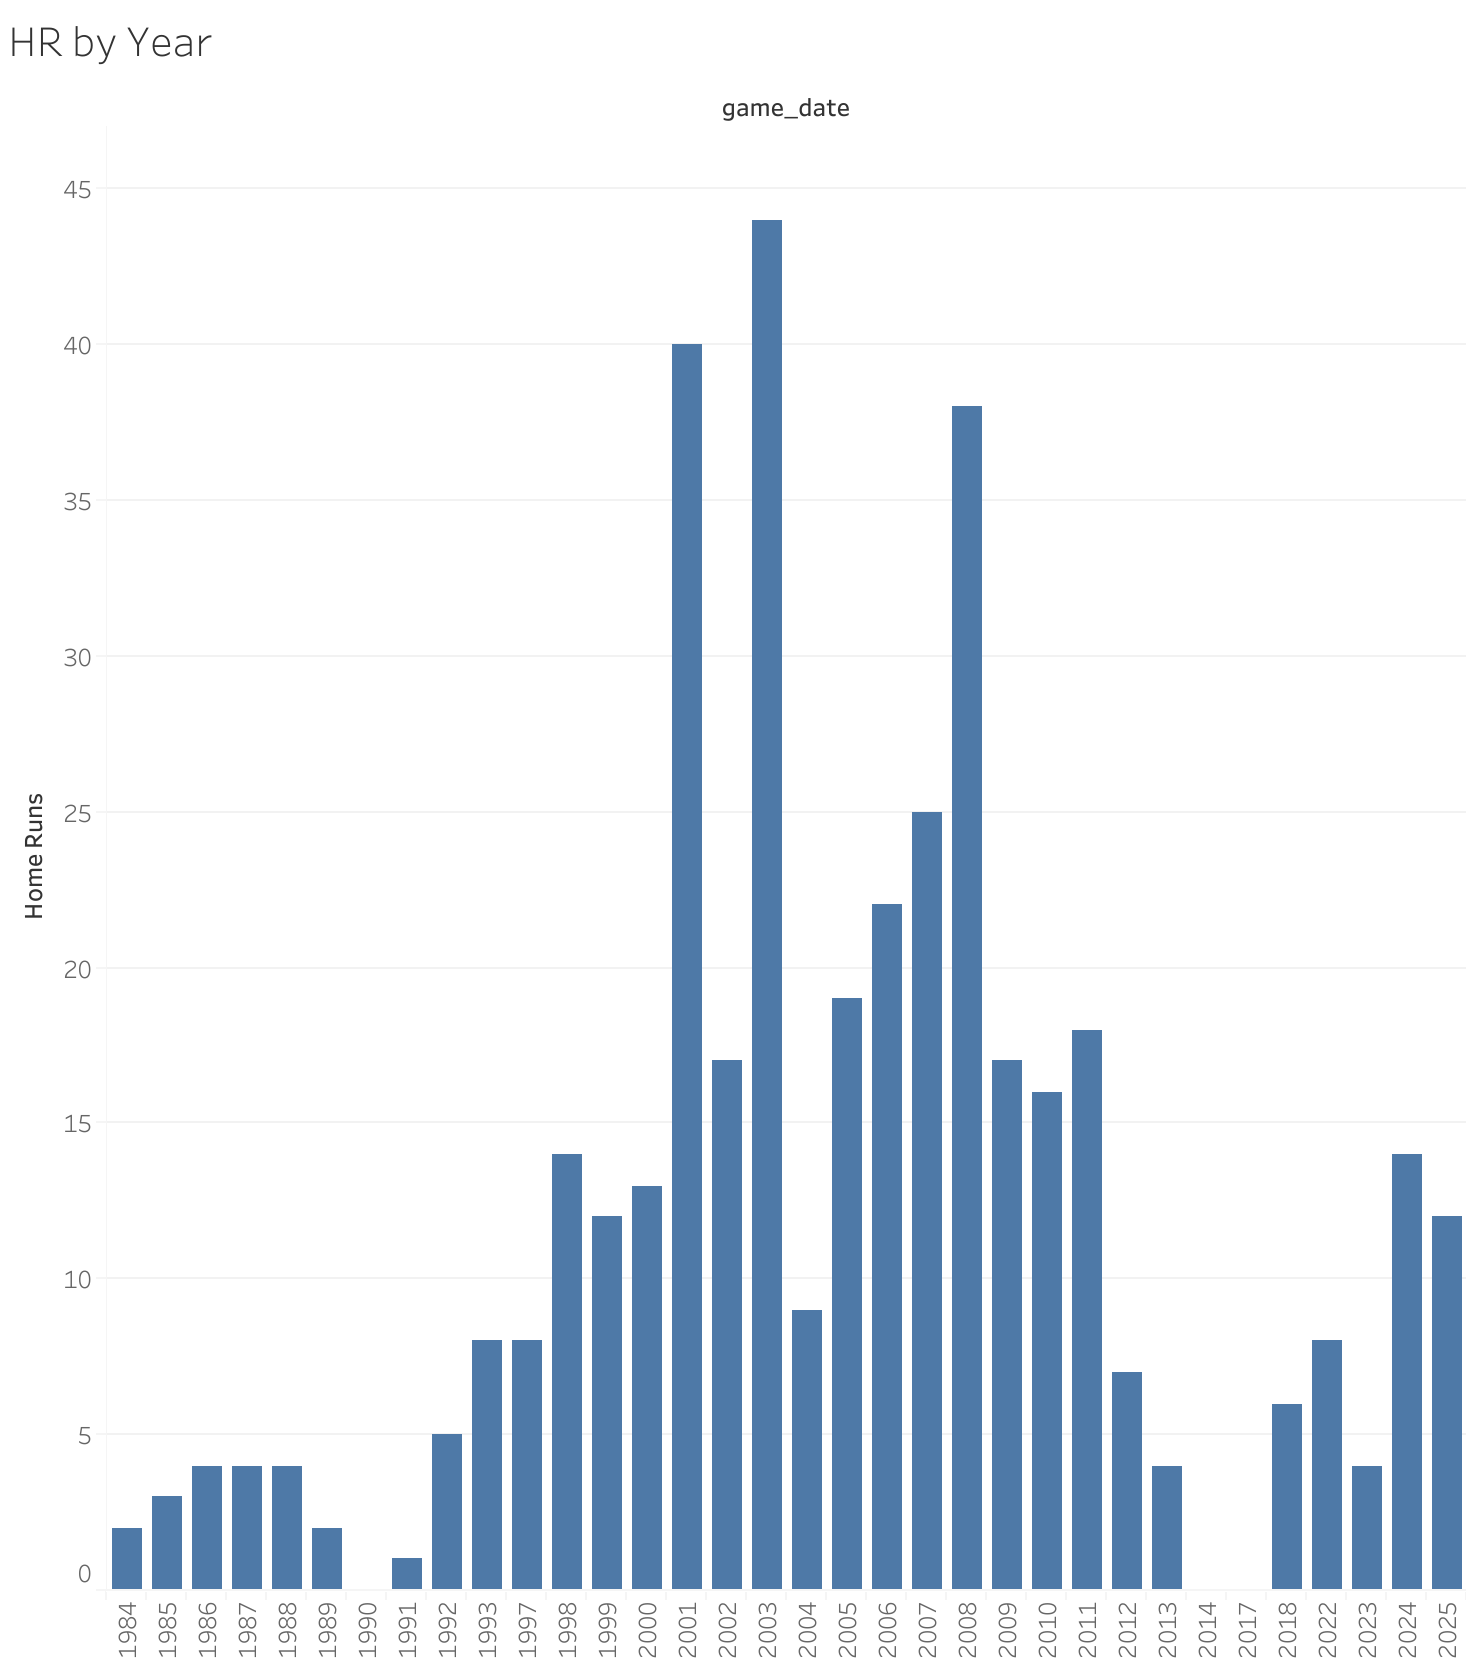
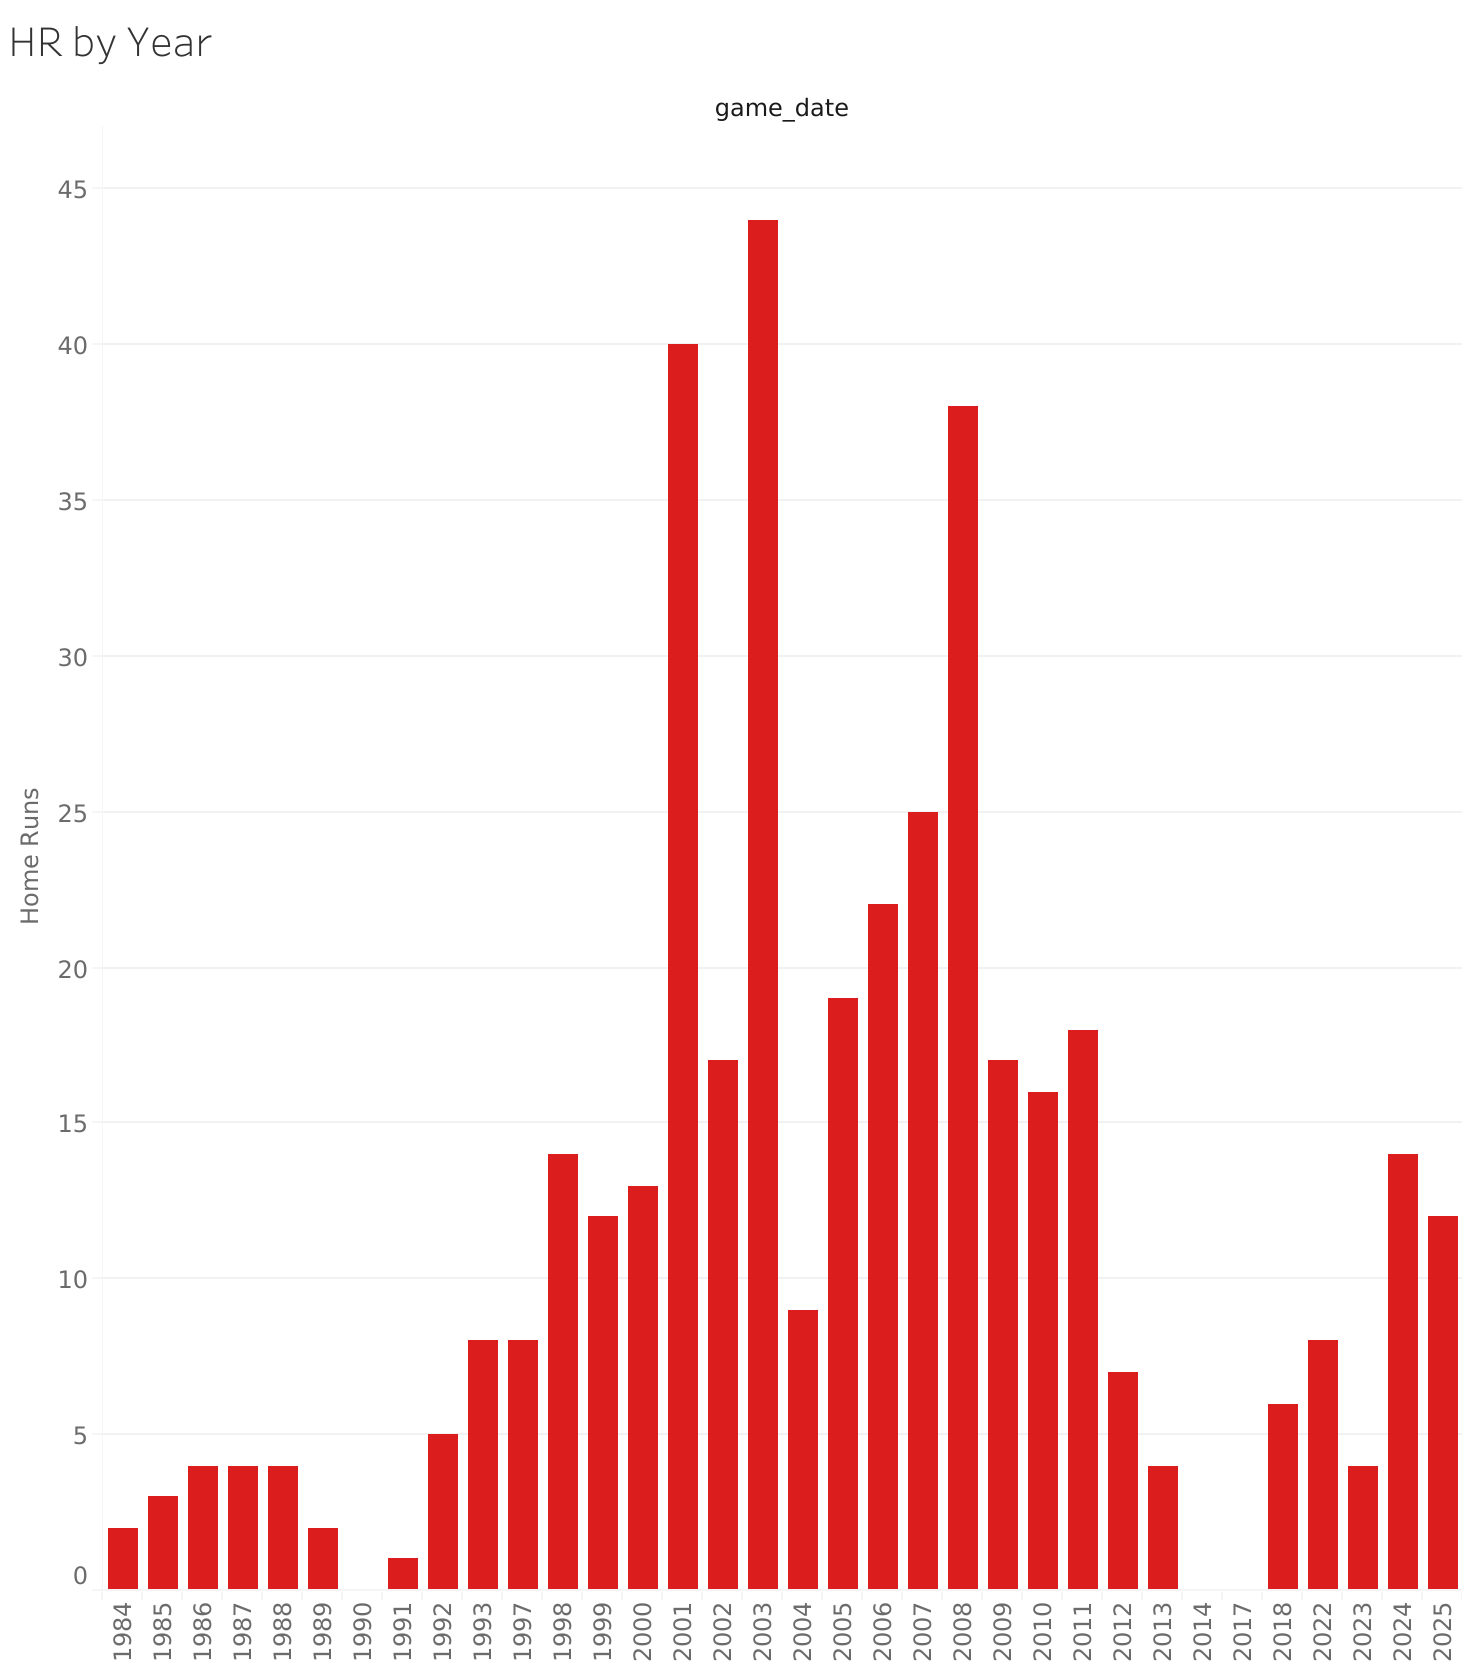
hr_by_year re-emitted with the NBTV style block (Build 2.5): mark color + fonts from ~/.claude/skills/nbtv-design/tokens/chart.json, server accepted, receipt 400 PASS; red bars confirmed on the PNG

diff --git a/build_workbook.py b/build_workbook.py
@@ -97,6 +97,37 @@ def _column_xml(c: dict, indent: str) -> str:
     return head + " />\n"
 
 
+CHART_TOKENS = pathlib.Path(os.environ.get("NBTV_CHART_TOKENS",
+                                           pathlib.Path.home() / ".claude" / "skills" / "nbtv-design" / "tokens" / "chart.json"))
+
+
+def _style_xml() -> str:
+    """NBTV chart tokens as a worksheet <style> block (Build 2.5: brand is a ceiling, never a blocker --
+    if chart.json is missing the sheet ships unstyled). Mark color + fonts; the server validates the grammar."""
+    if not CHART_TOKENS.exists():
+        return "        <style />\n"
+    t = json.loads(CHART_TOKENS.read_text(encoding="utf-8"))
+    bar, ink, muted = t["light"]["bar"], t["light"]["ink"], t["light"]["muted"]
+    font = t["font"]["display"].split(",")[0].strip("'\" ")
+    return f"""        <style>
+          <style-rule element='mark'>
+            <format attr='mark-color' value='{bar}' />
+          </style-rule>
+          <style-rule element='worksheet'>
+            <format attr='font-family' value='{font}' />
+            <format attr='color' value='{ink}' />
+          </style-rule>
+          <style-rule element='axis'>
+            <format attr='font-family' value='{font}' />
+            <format attr='color' value='{muted}' />
+          </style-rule>
+          <style-rule element='label'>
+            <format attr='font-family' value='{font}' />
+          </style-rule>
+        </style>
+"""
+
+
 def _instance(col: str, deriv: str) -> tuple[str, str]:
     prefix, suffix = _DERIV[deriv]
     return f"[{prefix}:{col}:{suffix}]", _ITYPE[suffix]
@@ -148,8 +179,7 @@ def render_twb(spec: dict, env: dict[str, str]) -> str:
 {dep_columns}{instances}          </datasource-dependencies>
           <aggregation value='true' />
         </view>
-        <style />
-        <panes>
+{_style_xml()}        <panes>
           <pane selection-relaxation-option='selection-relaxation-allow'>
             <view>
               <breakdown value='auto' />
